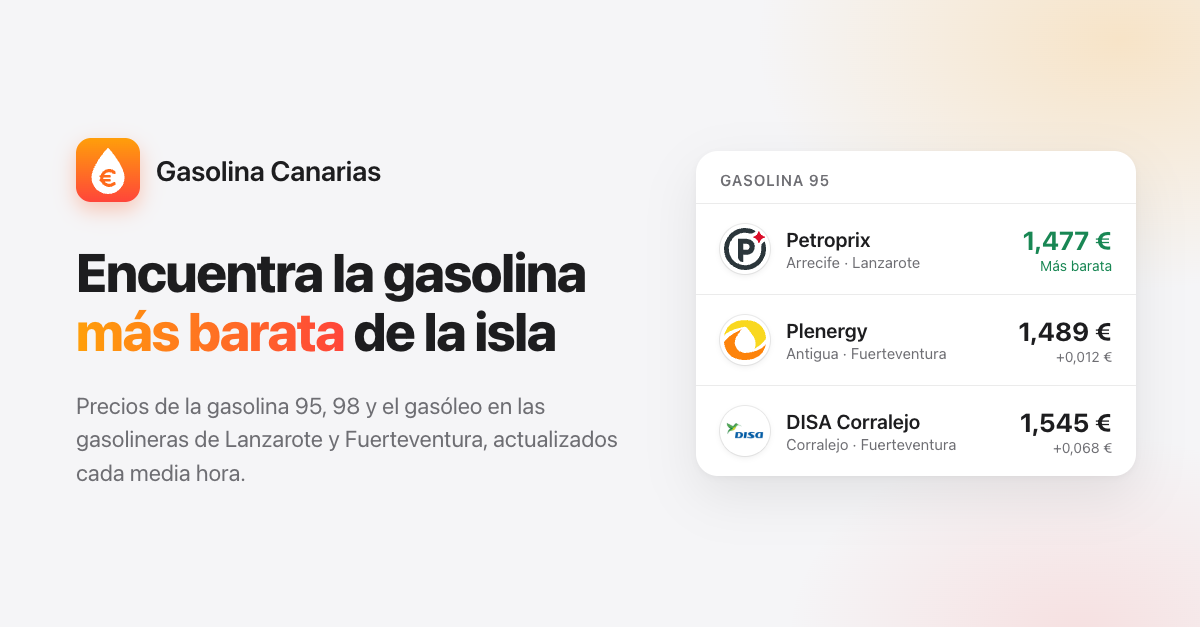
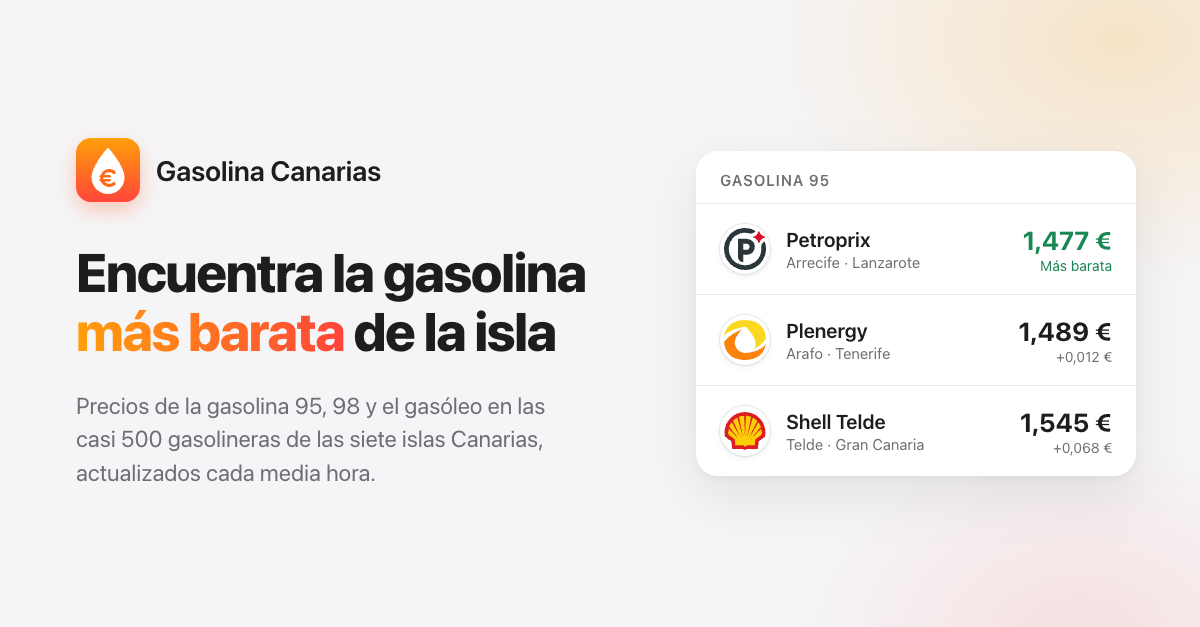
feat(website): add the rest of the Canary Islands
Gran Canaria, Tenerife, La Gomera, La Palma and El Hierro join the
selector. The data script now asks the API for the two Canary
provinces (2 requests instead of one per municipality) and splits the
stations by island using their municipality code.

Changed region(s): [[0.0617, 0.6667, 0.5242, 0.7879], [0.5858, 0.6364, 0.8017, 0.7273], [0.6475, 0.5455, 0.8017, 0.5758]]

diff --git a/scripts/minetur.ts b/scripts/minetur.ts
@@ -1,12 +1,14 @@
 import type { IdIsla } from '../src/islas.ts'
 import type { DatosGasolineras, Gasolinera } from '../src/tipos.ts'
 
-// API REST de precios de carburantes del Ministerio
+// API REST de precios de carburantes del Ministerio. Se piden las dos provincias
+// canarias (Las Palmas y Santa Cruz de Tenerife) y se reparten por isla.
 const API_URL =
-  'https://sedeaplicaciones.minetur.gob.es/ServiciosRESTCarburantes/PreciosCarburantes/EstacionesTerrestres/FiltroMunicipio/'
+  'https://sedeaplicaciones.minetur.gob.es/ServiciosRESTCarburantes/PreciosCarburantes/EstacionesTerrestres/FiltroProvincia/'
+const PROVINCIAS = ['35', '38']
 
 // Códigos de los municipios de cada isla en la API
-// (https://sedeaplicaciones.minetur.gob.es/ServiciosRESTCarburantes/PreciosCarburantes/Listados/MunicipiosPorProvincia/35)
+// (https://sedeaplicaciones.minetur.gob.es/ServiciosRESTCarburantes/PreciosCarburantes/Listados/MunicipiosPorProvincia/35 y /38)
 export const MUNICIPIOS: Record<IdIsla, Record<string, string>> = {
   lanzarote: {
     arrecife: '5237',
@@ -25,12 +27,98 @@ export const MUNICIPIOS: Record<IdIsla, Record<string, string>> = {
     puertoDelRosario: '5250',
     tuineje: '5262',
   },
+  'gran-canaria': {
+    agaete: '5233',
+    aguimes: '5234',
+    laAldeaDeSanNicolas: '5235',
+    artenara: '5238',
+    arucas: '5239',
+    firgas: '5241',
+    galdar: '5242',
+    ingenio: '5244',
+    mogan: '5245',
+    moya: '5246',
+    lasPalmasDeGranCanaria: '5249',
+    sanBartolomeDeTirajana: '5252',
+    santaBrigida: '5253',
+    santaLuciaDeTirajana: '5254',
+    santaMariaDeGuia: '5255',
+    tejeda: '5257',
+    telde: '5258',
+    teror: '5259',
+    valleseco: '5263',
+    valsequillo: '5264',
+    vegaDeSanMateo: '5265',
+  },
+  tenerife: {
+    adeje: '5691',
+    arafo: '5694',
+    arico: '5695',
+    arona: '5696',
+    buenavistaDelNorte: '5700',
+    candelaria: '5701',
+    fasnia: '5702',
+    garachico: '5705',
+    granadillaDeAbona: '5707',
+    laGuancha: '5708',
+    guiaDeIsora: '5709',
+    guimar: '5710',
+    icodDeLosVinos: '5712',
+    laMatanzaDeAcentejo: '5714',
+    laOrotava: '5715',
+    puertoDeLaCruz: '5717',
+    losRealejos: '5720',
+    elRosario: '5721',
+    laLaguna: '5723',
+    sanJuanDeLaRambla: '5724',
+    sanMiguelDeAbona: '5725',
+    santaCruzDeTenerife: '5728',
+    santaUrsula: '5729',
+    santiagoDelTeide: '5730',
+    elSauzal: '5731',
+    losSilos: '5732',
+    tacoronte: '5733',
+    elTanque: '5734',
+    tegueste: '5736',
+    laVictoriaDeAcentejo: '5741',
+    vilaflor: '5742',
+  },
+  'la-gomera': {
+    agulo: '5692',
+    alajero: '5693',
+    hermigua: '5711',
+    sanSebastianDeLaGomera: '5726',
+    valleGranRey: '5738',
+    vallehermoso: '5739',
+  },
+  'la-palma': {
+    barlovento: '5697',
+    brenaAlta: '5698',
+    brenaBaja: '5699',
+    fuencaliente: '5704',
+    garafia: '5706',
+    losLlanosDeAridane: '5713',
+    elPaso: '5716',
+    puntagorda: '5718',
+    puntallana: '5719',
+    sanAndresYSauces: '5722',
+    santaCruzDeLaPalma: '5727',
+    tazacorte: '5735',
+    tijarafe: '5737',
+    villaDeMazo: '5743',
+  },
+  'el-hierro': {
+    frontera: '5703',
+    valverde: '5740',
+    elPinar: '8112',
+  },
 }
 
 // Solo los campos que usamos; la API devuelve muchos más.
 // Los números llegan como texto con coma decimal ("1,459") y vacíos si no hay dato.
 export type EstacionApi = {
   IDEESS: string
+  IDMunicipio: string
   'Rótulo': string
   Horario: string
   Localidad: string
@@ -43,7 +131,7 @@ export type EstacionApi = {
   'Precio Gasoleo A': string
 }
 
-type RespuestaMunicipio = {
+type RespuestaProvincia = {
   Fecha: string
   ListaEESSPrecio: EstacionApi[]
 }
@@ -83,22 +171,33 @@ export function normalizarEstacion(estacion: EstacionApi): Gasolinera | null {
   }
 }
 
-async function fetchMunicipio(codigo: string): Promise<RespuestaMunicipio> {
+async function fetchProvincia(codigo: string): Promise<RespuestaProvincia> {
   const respuesta = await fetch(API_URL + codigo)
   if (!respuesta.ok) {
-    throw new Error(`Error ${respuesta.status} al obtener el municipio ${codigo}`)
+    throw new Error(`Error ${respuesta.status} al obtener la provincia ${codigo}`)
   }
-  return respuesta.json() as Promise<RespuestaMunicipio>
+  return respuesta.json() as Promise<RespuestaProvincia>
 }
 
-export async function descargarGasolineras(isla: IdIsla): Promise<DatosGasolineras> {
-  const respuestas = await Promise.all(Object.values(MUNICIPIOS[isla]).map(fetchMunicipio))
-  return {
-    // Todas las respuestas traen la misma fecha
-    fecha: respuestas[0].Fecha,
-    gasolineras: respuestas
-      .flatMap((r) => r.ListaEESSPrecio)
-      .map(normalizarEstacion)
-      .filter((g): g is Gasolinera => g !== null),
-  }
+// Agrupa las estaciones de las dos provincias por isla según su municipio
+export function repartirPorIsla(estaciones: EstacionApi[], fecha: string): Record<IdIsla, DatosGasolineras> {
+  return Object.fromEntries(
+    Object.entries(MUNICIPIOS).map(([isla, municipios]) => {
+      const codigos = new Set(Object.values(municipios))
+      const gasolineras = estaciones
+        .filter((e) => codigos.has(e.IDMunicipio))
+        .map(normalizarEstacion)
+        .filter((g): g is Gasolinera => g !== null)
+      return [isla, { fecha, gasolineras }]
+    }),
+  ) as Record<IdIsla, DatosGasolineras>
+}
+
+export async function descargarGasolineras(): Promise<Record<IdIsla, DatosGasolineras>> {
+  const respuestas = await Promise.all(PROVINCIAS.map(fetchProvincia))
+  return repartirPorIsla(
+    respuestas.flatMap((r) => r.ListaEESSPrecio),
+    // Las dos respuestas traen la misma fecha
+    respuestas[0].Fecha,
+  )
 }

diff --git a/index.html b/index.html
@@ -22,7 +22,7 @@
     </script>
     <meta
       name="description"
-      content="Precios actualizados de la gasolina y el gasóleo en las gasolineras de Lanzarote y Fuerteventura"
+      content="Precios actualizados de la gasolina y el gasóleo en las gasolineras de las islas Canarias"
     />
     <link rel="icon" type="image/svg+xml" href="/logo.svg" />
 
@@ -30,18 +30,18 @@
     <meta property="og:type" content="website" />
     <meta property="og:locale" content="es_ES" />
     <meta property="og:site_name" content="Gasolina Canarias" />
-    <meta property="og:title" content="Gasolina Canarias: la gasolina más barata de Lanzarote y Fuerteventura" />
+    <meta property="og:title" content="Gasolina Canarias: la gasolina más barata de cada isla" />
     <meta
       property="og:description"
-      content="Precios de la gasolina 95, 98 y el gasóleo en las gasolineras de Lanzarote y Fuerteventura, actualizados cada media hora."
+      content="Precios de la gasolina 95, 98 y el gasóleo en las casi 500 gasolineras de las siete islas Canarias, actualizados cada media hora."
     />
     <meta property="og:url" content="https://aledeleonez.github.io/appPrecioGasolinaLanzarote/" />
     <meta property="og:image" content="https://aledeleonez.github.io/appPrecioGasolinaLanzarote/og-image.png" />
     <meta property="og:image:width" content="1200" />
     <meta property="og:image:height" content="627" />
-    <meta property="og:image:alt" content="Gasolina Canarias: ranking de precios de la gasolina en Lanzarote y Fuerteventura" />
+    <meta property="og:image:alt" content="Gasolina Canarias: ranking de precios de la gasolina en Canarias" />
     <meta name="twitter:card" content="summary_large_image" />
-    <title>Precio de la gasolina en Lanzarote y Fuerteventura | Gasolina Canarias</title>
+    <title>Precio de la gasolina en Canarias | Gasolina Canarias</title>
   </head>
   <body>
     <div id="root"></div>

diff --git a/scripts/minetur.test.ts b/scripts/minetur.test.ts
@@ -1,8 +1,17 @@
 import { describe, expect, it } from 'vitest'
-import { moverArticulo, normalizarEstacion, parseDecimal, type EstacionApi } from './minetur.ts'
+import { ISLAS } from '../src/islas.ts'
+import {
+  moverArticulo,
+  MUNICIPIOS,
+  normalizarEstacion,
+  parseDecimal,
+  repartirPorIsla,
+  type EstacionApi,
+} from './minetur.ts'
 
 const estacion: EstacionApi = {
   IDEESS: '7908',
+  IDMunicipio: '5251',
   'Rótulo': 'DISA',
   Horario: 'L-D: 24H',
   Localidad: 'SAN BARTOLOME',
@@ -62,5 +71,27 @@ describe('normalizarEstacion', () => {
 
   it('descarta las estaciones sin coordenadas', () => {
     expect(normalizarEstacion({ ...estacion, Latitud: '' })).toBeNull()
+  })
+})
+
+describe('MUNICIPIOS', () => {
+  it('tiene los 88 municipios canarios, cada uno en una sola isla', () => {
+    const codigos = Object.values(MUNICIPIOS).flatMap((m) => Object.values(m))
+    expect(codigos).toHaveLength(88)
+    expect(new Set(codigos).size).toBe(88)
+  })
+
+  it('tiene una entrada por cada isla de la web', () => {
+    expect(Object.keys(MUNICIPIOS).sort()).toEqual(ISLAS.map((i) => i.id).sort())
+  })
+})
+
+describe('repartirPorIsla', () => {
+  it('pone cada estación en la isla de su municipio', () => {
+    const laOliva = { ...estacion, IDEESS: '1', IDMunicipio: '5247' }
+    const islas = repartirPorIsla([estacion, laOliva], '21/10/2026 13:24:54')
+    expect(islas.lanzarote.gasolineras.map((g) => g.id)).toEqual(['7908'])
+    expect(islas.fuerteventura.gasolineras.map((g) => g.id)).toEqual(['1'])
+    expect(islas.tenerife).toEqual({ fecha: '21/10/2026 13:24:54', gasolineras: [] })
   })
 })

diff --git a/src/islas.ts b/src/islas.ts
@@ -1,7 +1,14 @@
 // Islas que muestra la web. Cada una tiene su JSON (public/data/<id>.json) y sus
 // rutas (/<id>, /<id>/gasoleo...). Los municipios de cada isla están en scripts/minetur.ts
 
-export type IdIsla = 'lanzarote' | 'fuerteventura'
+export type IdIsla =
+  | 'lanzarote'
+  | 'fuerteventura'
+  | 'gran-canaria'
+  | 'tenerife'
+  | 'la-gomera'
+  | 'la-palma'
+  | 'el-hierro'
 
 export type Isla = {
   id: IdIsla
@@ -10,6 +17,7 @@ export type Isla = {
   limites: [[number, number], [number, number]]
 }
 
+// De este a oeste. La primera es la que se abre si no hay otra elegida.
 export const ISLAS: Isla[] = [
   // De Playa Blanca a Órzola
   {
@@ -27,6 +35,48 @@ export const ISLAS: Isla[] = [
     limites: [
       [-14.52, 28.04],
       [-13.82, 28.76],
+    ],
+  },
+  // De La Aldea a Gando y de Maspalomas a La Isleta
+  {
+    id: 'gran-canaria',
+    nombre: 'Gran Canaria',
+    limites: [
+      [-15.84, 27.73],
+      [-15.35, 28.19],
+    ],
+  },
+  // De Teno a Anaga y de Los Cristianos a Bajamar
+  {
+    id: 'tenerife',
+    nombre: 'Tenerife',
+    limites: [
+      [-16.93, 27.99],
+      [-16.11, 28.6],
+    ],
+  },
+  {
+    id: 'la-gomera',
+    nombre: 'La Gomera',
+    limites: [
+      [-17.36, 28.01],
+      [-17.08, 28.22],
+    ],
+  },
+  {
+    id: 'la-palma',
+    nombre: 'La Palma',
+    limites: [
+      [-18.01, 28.45],
+      [-17.71, 28.86],
+    ],
+  },
+  {
+    id: 'el-hierro',
+    nombre: 'El Hierro',
+    limites: [
+      [-18.17, 27.63],
+      [-17.86, 27.86],
     ],
   },
 ]

diff --git a/scripts/actualizar-datos.ts b/scripts/actualizar-datos.ts
@@ -1,15 +1,14 @@
 // Descarga los precios de la API del Ministerio y los guarda en public/data/<isla>.json.
 // Lo ejecuta la GitHub Action antes de cada despliegue y `npm run dev` al arrancar.
 import { mkdir, writeFile } from 'node:fs/promises'
-import type { IdIsla } from '../src/islas.ts'
-import { descargarGasolineras, MUNICIPIOS } from './minetur.ts'
+import { descargarGasolineras } from './minetur.ts'
 
 const DESTINO = new URL('../public/data/', import.meta.url)
 
 await mkdir(DESTINO, { recursive: true })
 
-for (const isla of Object.keys(MUNICIPIOS) as IdIsla[]) {
-  const datos = await descargarGasolineras(isla)
+const islas = await descargarGasolineras()
+for (const [isla, datos] of Object.entries(islas)) {
   if (datos.gasolineras.length === 0) {
     throw new Error(`La API no ha devuelto ninguna gasolinera de ${isla}`)
   }

diff --git a/src/utils/marcas.ts b/src/utils/marcas.ts
@@ -33,7 +33,7 @@ const MARCAS: { claves: string[]; nombre: string; logo: string }[] = [
 ]
 
 // Palabras que no ayudan a identificar la estación
-const GENERICAS = new Set(['ESTACION', 'ESTACIÓN', 'GASOLINERA', 'ES', 'E', 'S', 'DE', 'LA', 'EL'])
+const GENERICAS = new Set(['ESTACION', 'ESTACIÓN', 'GASOLINERA', 'ES', 'E', 'S', 'DE', 'DEL', 'LA', 'EL'])
 
 // "SPL" → "SPL", "TGAS HARÍA" → "TGAS", "COMBUSTIBLES CANARIOS" → "CC"
 function iniciales(rotulo: string): string {

diff --git a/src/islas.test.ts b/src/islas.test.ts
@@ -6,6 +6,7 @@ describe('islaDeRuta', () => {
     expect(islaDeRuta('/fuerteventura').id).toBe('fuerteventura')
     expect(islaDeRuta('/fuerteventura/gasoleo').id).toBe('fuerteventura')
     expect(islaDeRuta('/lanzarote/mapa').id).toBe('lanzarote')
+    expect(islaDeRuta('/gran-canaria/gasolina98').id).toBe('gran-canaria')
   })
 
   it('usa Lanzarote si la ruta no lleva isla', () => {

diff --git a/src/utils/marcas.test.ts b/src/utils/marcas.test.ts
@@ -33,5 +33,6 @@ describe('marcaDe', () => {
     expect(marcaDe('PETROLERA SUR').iniciales).toBe('PS')
     expect(marcaDe('ABCD NORTE').iniciales).toBe('ABCD')
     expect(marcaDe('ESTACION ROQUE NUBLO').iniciales).toBe('RN')
+    expect(marcaDe('DEL VALLE COMBUSTIBLES, S.L.').iniciales).toBe('VC')
   })
 })

diff --git a/README.md b/README.md
@@ -1,6 +1,6 @@
 # Gasolina Canarias
 
-Web que muestra los precios de la gasolina 95, la gasolina 98 y el gasóleo en las gasolineras de Lanzarote y Fuerteventura, ordenados de más barato a más caro, y un mapa con todas las estaciones.
+Web que muestra los precios de la gasolina 95, la gasolina 98 y el gasóleo en las gasolineras de las siete islas Canarias, ordenados de más barato a más caro, y un mapa con todas las estaciones.
 
 **[Ver la web](https://aledeleonez.github.io/appPrecioGasolinaLanzarote/)**
 
@@ -8,7 +8,7 @@ Web que muestra los precios de la gasolina 95, la gasolina 98 y el gasóleo en l
 
 ## Qué puedes hacer
 
-- Elegir la isla: Lanzarote (47 gasolineras) o Fuerteventura (27).
+- Elegir la isla: Lanzarote, Fuerteventura, Gran Canaria, Tenerife, La Gomera, La Palma o El Hierro (unas 500 gasolineras en total).
 - Ver el ranking de las gasolineras de la isla para cada carburante, con la diferencia de precio respecto a la más barata.
 - Filtrar por municipio y compartir el enlace ya filtrado (por ejemplo, [gasóleo en Tías](https://aledeleonez.github.io/appPrecioGasolinaLanzarote/lanzarote/gasoleo?municipio=tias) o [gasolina 95 en La Oliva](https://aledeleonez.github.io/appPrecioGasolinaLanzarote/fuerteventura?municipio=la-oliva)).
 - Buscar gasolineras en el mapa y ver sus precios al pulsar en ellas.
@@ -22,9 +22,9 @@ Web que muestra los precios de la gasolina 95, la gasolina 98 y el gasóleo en l
 
 ## Cómo funciona
 
-Los datos salen de la [API de precios de carburantes](https://sedeaplicaciones.minetur.gob.es/ServiciosRESTCarburantes/PreciosCarburantes/) del Ministerio, que se actualiza cada media hora. Una GitHub Action (`.github/workflows/deploy.yml`) los descarga cada media hora con `scripts/actualizar-datos.ts`, los guarda en un JSON limpio por isla (`lanzarote.json`, `fuerteventura.json`) y vuelve a publicar la web, así que el navegador solo descarga el JSON de la isla que estás viendo.
+Los datos salen de la [API de precios de carburantes](https://sedeaplicaciones.minetur.gob.es/ServiciosRESTCarburantes/PreciosCarburantes/) del Ministerio, que se actualiza cada media hora. Una GitHub Action (`.github/workflows/deploy.yml`) los descarga cada media hora con `scripts/actualizar-datos.ts`: pide las dos provincias canarias, reparte las gasolineras por isla según su municipio (la lista está en `scripts/minetur.ts`) y guarda un JSON limpio por isla (`lanzarote.json`, `tenerife.json`...). Después vuelve a publicar la web, así que el navegador solo descarga el JSON de la isla que estás viendo.
 
-Para añadir otra isla, pon sus municipios en `scripts/minetur.ts` y su nombre y encuadre del mapa en `src/islas.ts`.
+El nombre y el encuadre del mapa de cada isla están en `src/islas.ts`.
 
 ## Tecnologías
 
